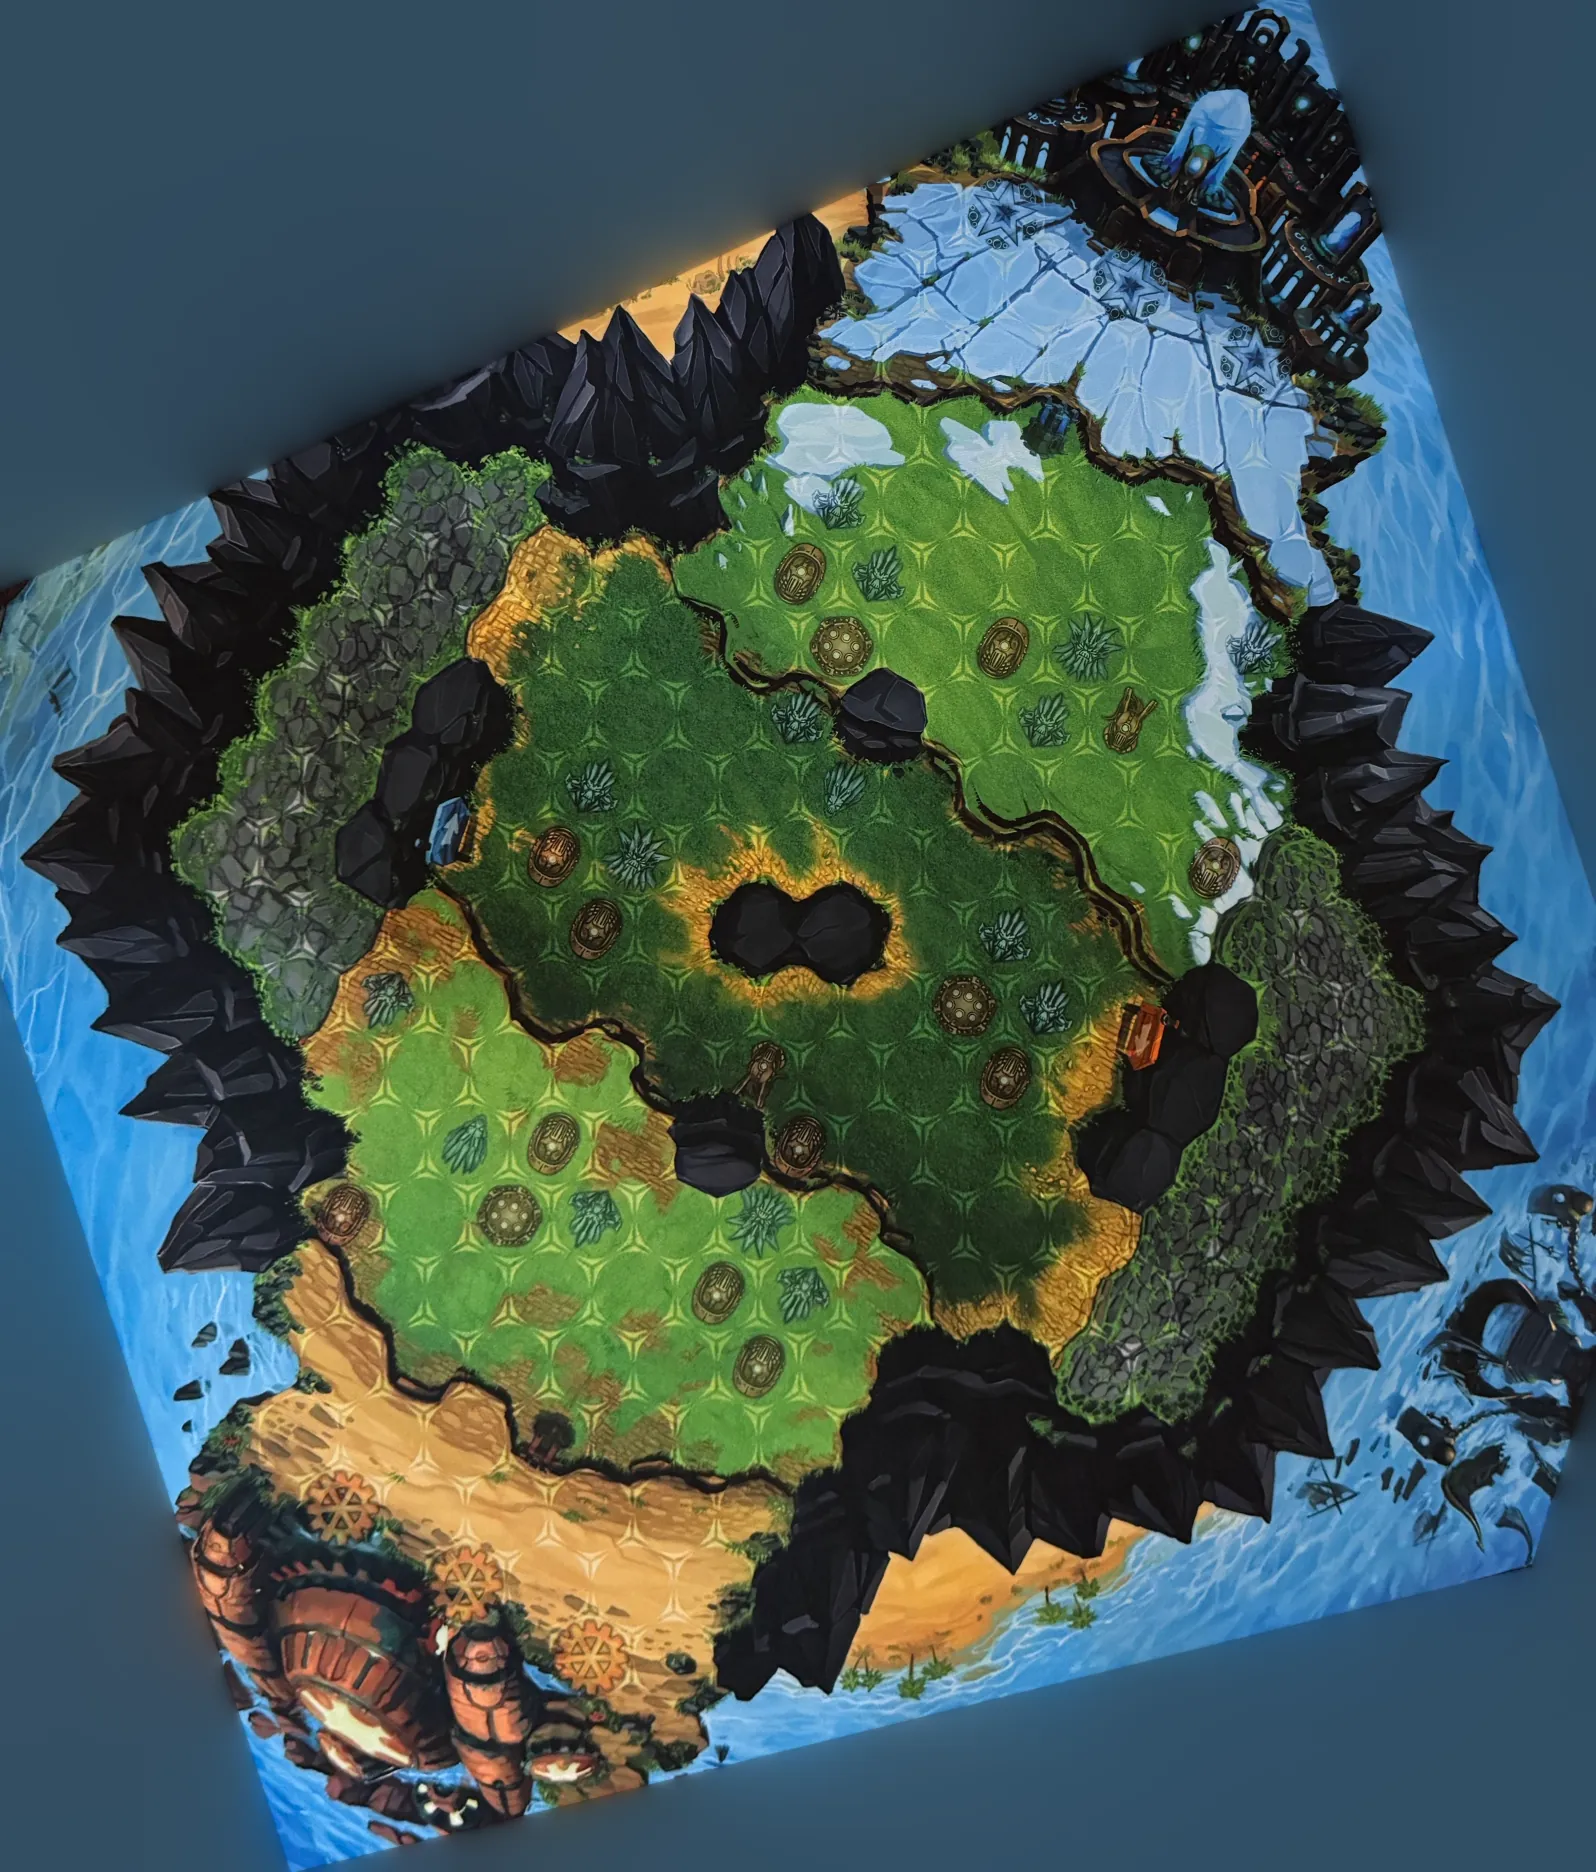
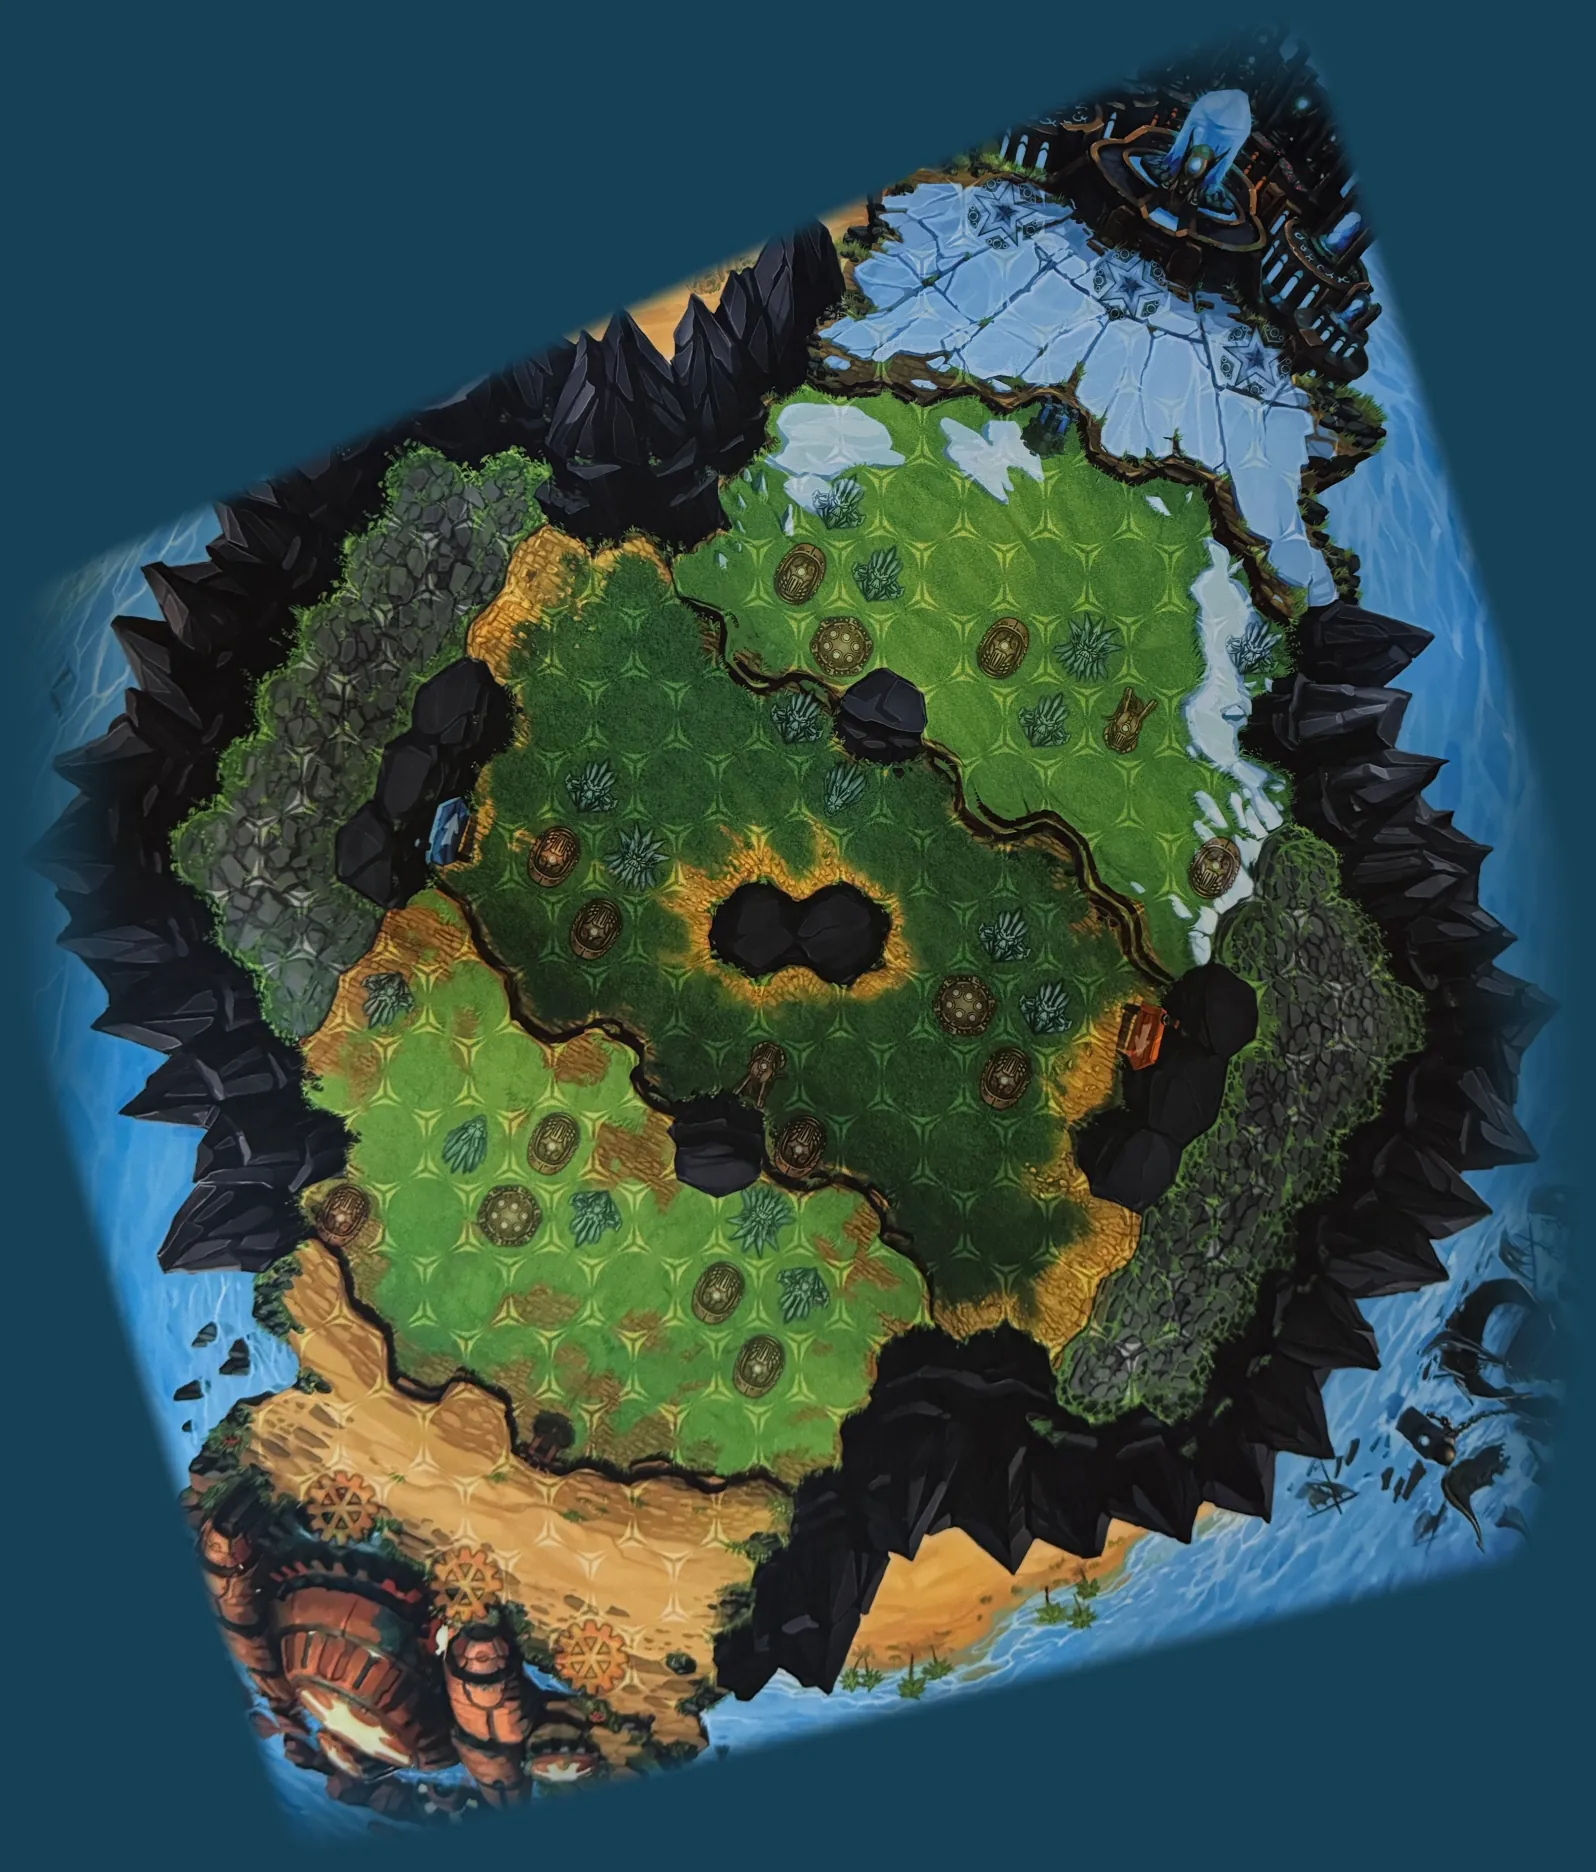
Catalog: the four paintings again, their sea, SOURCES.md and the report

diff --git a/tools/catalog-import/REPORT.md b/tools/catalog-import/REPORT.md
@@ -464,6 +464,7 @@ was compared space by space (`mapChecks`). Overlays: `tools/catalog-import/cache
 - pass — Terrain holes and spaces are disjoint: 14 enclosed terrain spaces
 - Overrides: none.
 - Overlay: `tools/catalog-import/cache/maps/forgotten-island-0-overlay.png` on Forgotten Island top-down art (CasperCB/Guards_Replay assets/maps/forbidden_island.webp, 1400 px) (worst anchor 13.9 px)
+- Painting: 0 spaces and rocks past the art's edge, drawn by the app; every patched space took clean ground of its own Zone.
 - Space-by-space check (2026-10-19, overlay cache/maps/forgotten-island-0-overlay.png): Overlay on the official top-down art compared space by space: all 210 spaces sit on the printed grid, the 14 enclosed terrain spaces are the rocks inside the island, Zone borders follow the printed cracks and terrain edges, all 40 spawn icons (3 gears, 3 stars, 34 minion icons) are on the tagged spaces with the right team and type and no icon is untagged. Rulebook p.5-6 setup images show the same board.
 
 ### Across the River (`across-the-river`)
@@ -494,6 +495,7 @@ was compared space by space (`mapChecks`). Overlays: `tools/catalog-import/cache
 - pass — Terrain holes and spaces are disjoint: 38 enclosed terrain spaces
 - Overrides: none.
 - Overlay: `tools/catalog-import/cache/maps/across-the-river-0-overlay.png` on Photo of the official Across the River neoprene mat (BGG image 9704865) (worst anchor 3.2 px)
+- Painting: 25 spaces and rocks past the art's edge, drawn by the app; every patched space took clean ground of its own Zone.
 - Space-by-space check (2026-10-19, overlay cache/maps/across-the-river-0-overlay.png): Overlay on a photo of the official mat compared space by space: spaces on the printed grid, rocks as terrain, Zone borders on the printed edges, every visible spawn icon (team and type) on its tagged space with none untagged (the tower icons are decoration, ignored per the designer, BGG 3527919/3741412). The corner of lane-2-2 (lane 2's Red-side middle Zone) outside the photo was checked against the rulebook p.20 image (icon positions) and the map's point symmetry (types). Rulebook p.20 labels this map's starting Battle Zones 1 and 2 (lane-1, lane-2).
 
 ### Narrow Passages (`narrow-passages`)
@@ -533,6 +535,7 @@ was compared space by space (`mapChecks`). Overlays: `tools/catalog-import/cache
 - Override: (7,-9) BlueBeach: spawn BlueMeleeSpawn → none
 - Override: (8,-3) BlueBeach: spawn none → RedMeleeSpawn
 - Overlay: `tools/catalog-import/cache/maps/narrow-passages-0-overlay.png` on Photo of the official Narrow Passages neoprene mat (BGG image 9704864) (worst anchor 5.9 px)
+- Painting: 0 spaces and rocks past the art's edge, drawn by the app; every patched space took clean ground of its own Zone.
 - **Not verified**: the community data disagreed with the art and was corrected from the art alone (overrides above), so the corrected spaces rest on one source. The map ships badged Unverified.
 
 ### Magma and Ice (`magma-and-ice`)
@@ -580,6 +583,7 @@ was compared space by space (`mapChecks`). Overlays: `tools/catalog-import/cache
 - Override: (-4,-4) RedBBeach: spawn RedHeavySpawn → none
 - Override: (-5,-4) RedBBeach: spawn none → BlueMeleeSpawn
 - Overlay: `tools/catalog-import/cache/maps/magma-and-ice-0-overlay.png` on Photo of the official Magma and Ice neoprene mat (BGG image 9704867) (worst anchor 8.2 px)
+- Painting: 12 spaces and rocks past the art's edge, drawn by the app; every patched space took clean ground of its own Zone.
 - **Not verified**: the community data disagreed with the art and was corrected from the art alone (overrides above), so the corrected spaces rest on one source. The map ships badged Unverified.
 
 ### Not shipped

diff --git a/app/src/main/assets/official/SOURCES.md b/app/src/main/assets/official/SOURCES.md
@@ -803,7 +803,7 @@ Graphics extracted from the rulebook PDF (SHA-256 `2c19b11d632759e9e3517e6a1450d
 | `official/ui/ribbon-green.webp` | p.6 | 7 · 1262 | Action card anatomy layers: green ribbon, p.6 |
 | `official/ui/ribbon-red.webp` | p.9 | 10 · 2902 | Action card anatomy layers: red ribbon, p.9 |
 | `official/ui/ribbon-silver.webp` | p.12 | 13 · 4363 | Action card anatomy layers: silver ribbon, p.12 |
-| `official/ui/sea.webp` | p.-1 | page render | Open sea, a region of the Forgotten Island painting (see the map art below) |
+| `official/ui/sea.webp` | not from the rulebook | map art | Open sea, a region of the Forgotten Island painting (see the map art below) |
 | `official/ui/silhouette.webp` | p.0 | 1 · 8940 | The cover's battlefield silhouette |
 | `official/ui/slate.webp` | p.16 | 17 · 6747 | The dashboard's dark plate, p.16 |
 | `official/ui/textbox-blue.webp` | p.7 | 8 · 2100 | Action card anatomy layers: blue text box, p.7 |
@@ -816,9 +816,9 @@ Graphics extracted from the rulebook PDF (SHA-256 `2c19b11d632759e9e3517e6a1450d
 | `official/ui/wave.webp` | p.5 | 6 · 604 | Wave counter, faceup, p.5 |
 
 The board paintings, resampled to line up with the hex layout (ADR-053). A photo of a mat is
-flattened by homography and what isn't the mat is filled with a dim blur of the painting. Spaces
-past a photo's edge take their ground from the nearest space of the same Zone (the app draws
-their Spawn points and Zone edges):
+flattened by homography; what isn't the mat is a plain dark sea, and the art fades into it. The
+whole picture is darkened by 8 %. Spaces past a photo's edge take their ground from a space of
+the same Zone with no Zone edge beside it (the app draws their Spawn points and Zone edges):
 
 | File | Source |
 |---|---|
